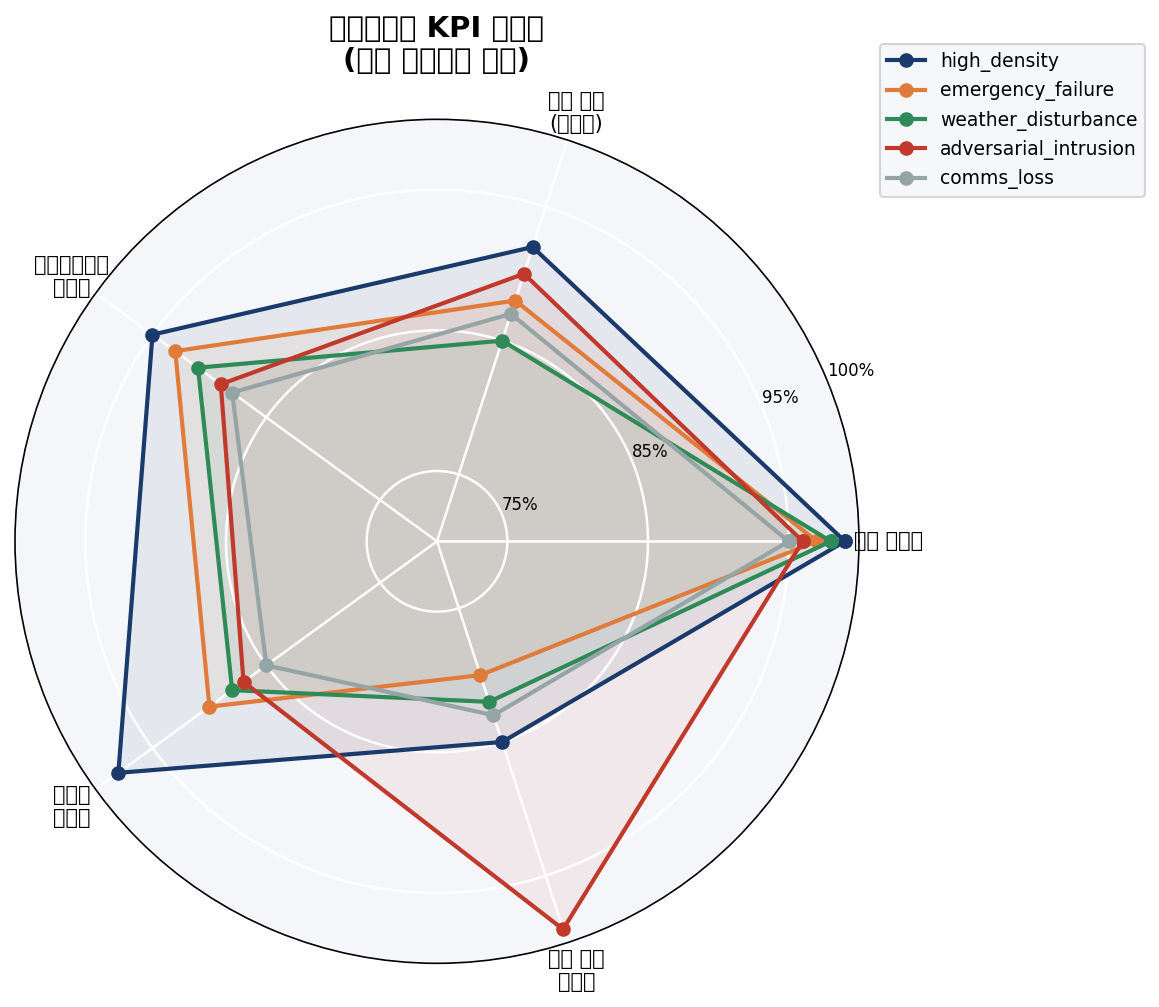
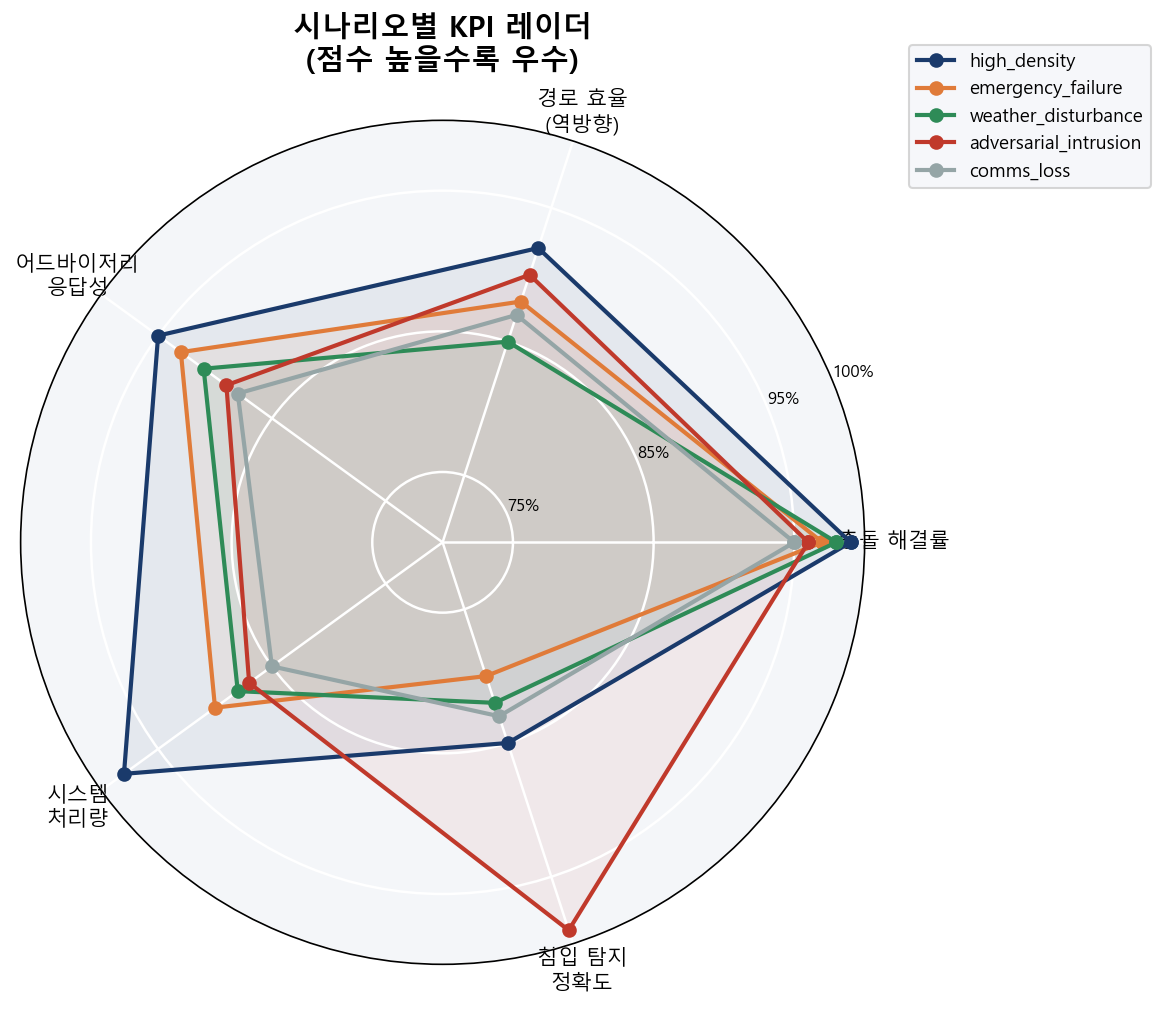
Add Korean font detection for charts
Detect common Korean fonts via matplotlib.font_manager and set matplotlib's font.family to the found font (fallback to DejaVu Sans) so charts render Korean text correctly. Updated generate_charts.py and regenerated chart images in docs/images to reflect the typography changes.

diff --git a/scripts/generate_charts.py b/scripts/generate_charts.py
@@ -35,8 +35,19 @@ RED    = "#C0392B"
 GRAY   = "#95A5A6"
 LIGHT  = "#F4F6F9"
 
+import matplotlib.font_manager as fm
+
+# 한글 폰트 설정 (Windows: Malgun Gothic, Mac: AppleGothic, Linux: NanumGothic)
+_KR_FONTS = ["Malgun Gothic", "맑은 고딕", "NanumGothic", "AppleGothic"]
+_found_font = None
+for _f in _KR_FONTS:
+    if any(_f.lower() in f.name.lower() for f in fm.fontManager.ttflist):
+        _found_font = _f
+        break
+
 plt.rcParams.update({
-    "font.family":        "DejaVu Sans",
+    "font.family":        _found_font or "DejaVu Sans",
+    "axes.unicode_minus": False,
     "axes.spines.top":    False,
     "axes.spines.right":  False,
     "axes.facecolor":     LIGHT,
